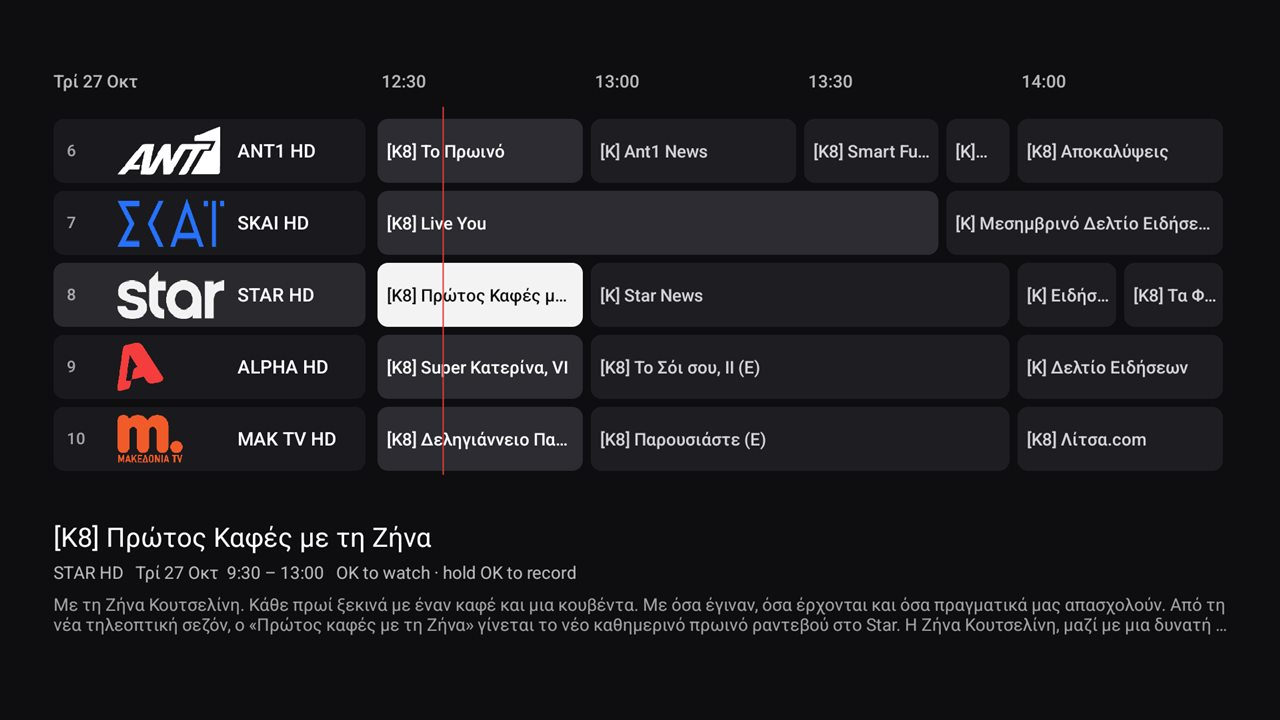
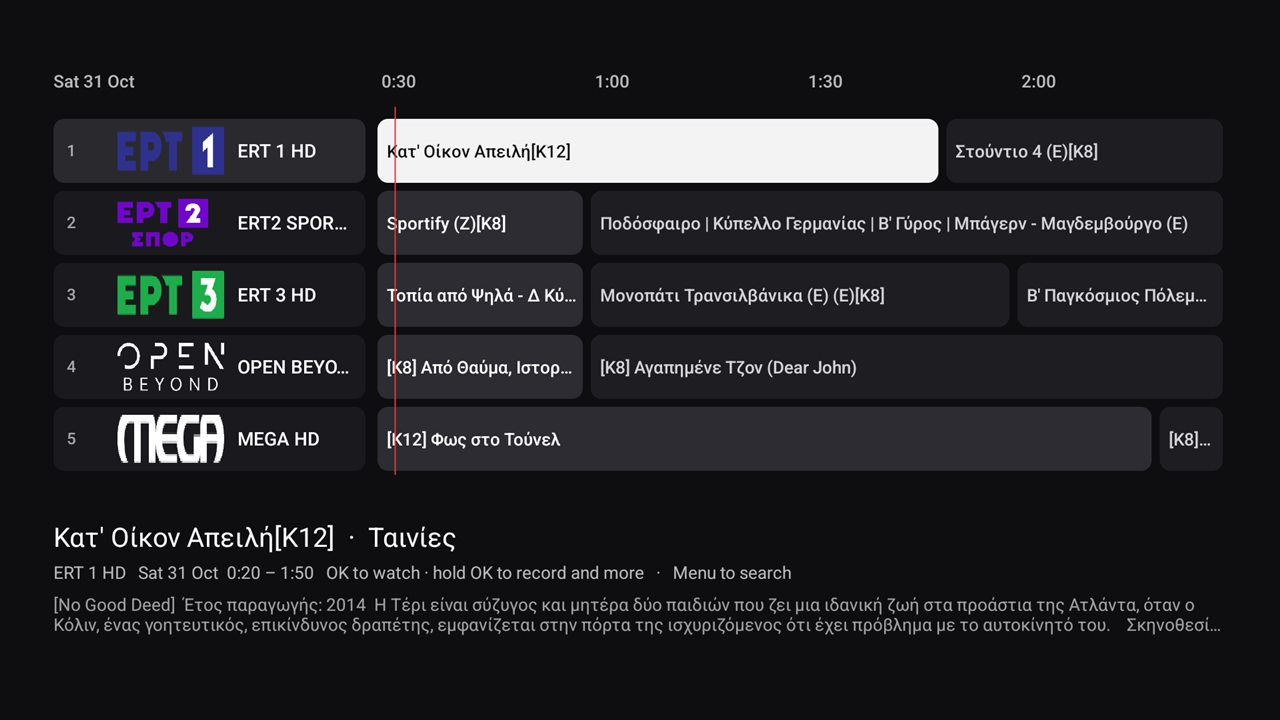
README: new screenshots (home, Top Shelf, Control Center, guide) in English and Greek

diff --git a/README.el.md b/README.el.md
@@ -5,7 +5,7 @@
 προγράμματος, εγγραφές, ραδιόφωνο με ζωντανό φασματικό διάγραμμα και παύση της ζωντανής τηλεόρασης. Μία
 μικρή εφαρμογή, χωρίς διαφημίσεις, χωρίς ξεχωριστή εφαρμογή τηλεόρασης.
 
-![Αρχική οθόνη: μια γραμμή με εφαρμογές streaming, μια σειρά Live TV με Οδηγό, Εγγραφές και λογότυπα καναλιών που δείχνουν τι παίζει, και μια σειρά Ραδιοφώνου](docs/screenshots/home-live-tv.jpg)
+![Αρχική οθόνη: μια γραμμή με εφαρμογές streaming, μια σειρά Live TV με Οδηγό, Εγγραφές και λογότυπα καναλιών που δείχνουν τι παίζει, και μια σειρά Ραδιοφώνου](docs/screenshots/el/home-live-tv.jpg)
 
 *Also in English: [README.md](README.md).*
 
@@ -127,7 +127,11 @@
 
 <table>
 <tr>
-<td><img src="docs/screenshots/guide.jpg" alt="Πλέγμα οδηγού προγράμματος με λογότυπα καναλιών, εκπομπές δύο ωρών, κόκκινη γραμμή «τώρα» και την περιγραφή της επιλεγμένης εκπομπής"></td>
+<td><img src="docs/screenshots/el/home-top-shelf.jpg" alt="Αρχική οθόνη με το Top Shelf πάνω από τη γραμμή εφαρμογών: μια δημοφιλής ταινία με αφίσα, κουμπιά Apple TV και Πού να το δείτε"></td>
+<td><img src="docs/screenshots/el/control-center.jpg" alt="Κέντρο ελέγχου: κάψουλες από παγωμένο γυαλί για Ύπνο, Wi-Fi, Bluetooth, Εισόδους, Ρυθμίσεις, Top Shelf, Οδηγό TV, Καιρό, Τηλεχειριστήριο, Προφύλαξη οθόνης και Γλώσσα"></td>
+</tr>
+<tr>
+<td><img src="docs/screenshots/el/guide.jpg" alt="Πλέγμα οδηγού προγράμματος με λογότυπα καναλιών, εκπομπές δύο ωρών, κόκκινη γραμμή «τώρα» και την περιγραφή της επιλεγμένης εκπομπής"></td>
 <td><img src="docs/screenshots/radio.jpg" alt="Οθόνη αναπαραγωγής ραδιοφώνου με λευκό φασματικό διάγραμμα με αντανάκλαση πάνω από το όνομα του σταθμού, την τρέχουσα και την επόμενη εκπομπή"></td>
 </tr>
 <tr>

diff --git a/README.md b/README.md
@@ -110,6 +110,10 @@ separate TV client.
 
 <table>
 <tr>
+<td><img src="docs/screenshots/home-top-shelf.jpg" alt="Home screen with the Top Shelf above the dock: a popular film with its poster, Apple TV and Where to watch buttons"></td>
+<td><img src="docs/screenshots/control-center.jpg" alt="Control Center: frosted capsules for Sleep, Wi-Fi, Bluetooth, Inputs, Settings, Top shelf, TV guide, Weather, Phone remote, Screensaver and Language"></td>
+</tr>
+<tr>
 <td><img src="docs/screenshots/guide.jpg" alt="TV guide grid with channel logos, programmes over two hours, a red now line and the selected programme's description"></td>
 <td><img src="docs/screenshots/radio.jpg" alt="Radio now-playing screen with a mirrored white spectrum above the station name, current show and next show"></td>
 </tr>
